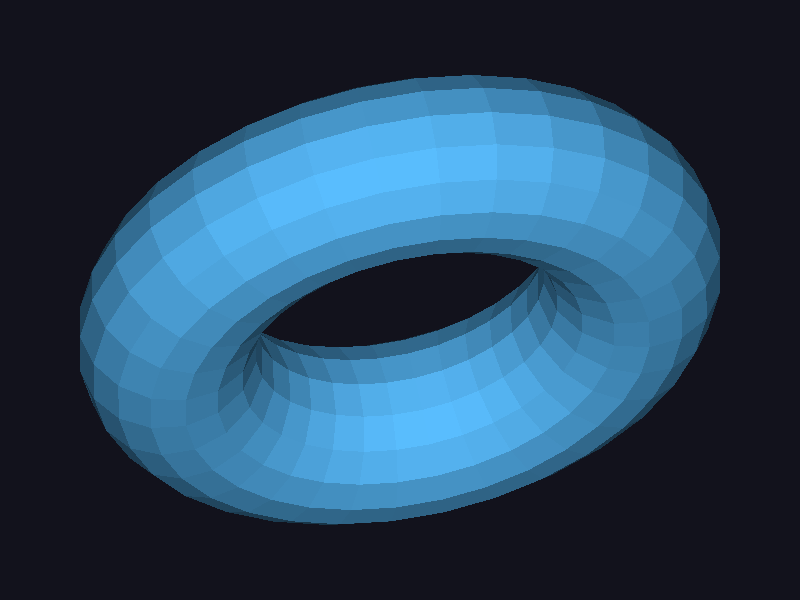
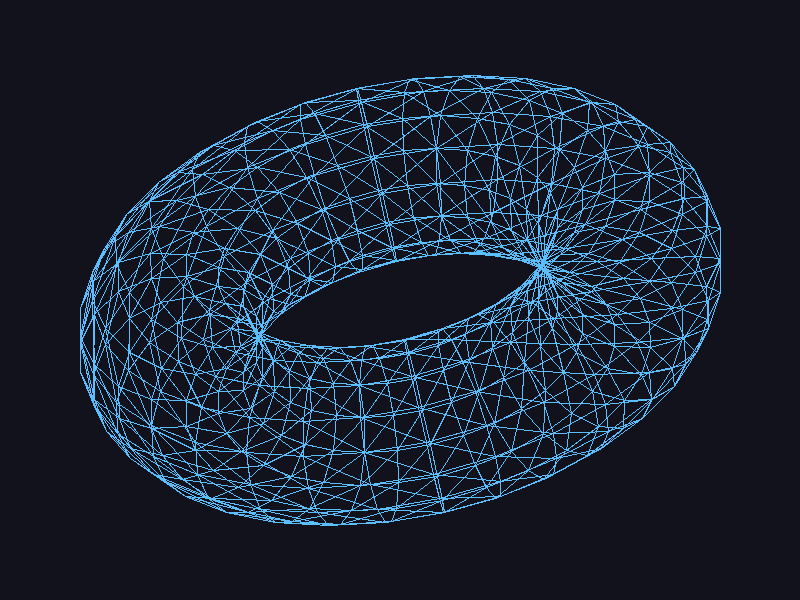
Updates

diff --git a/src/main.rs b/src/main.rs
@@ -3,13 +3,14 @@ mod obj;
 mod triangle;
 
 use framebuffer::Framebuffer;
-use obj::{Model, Vec3};
+use obj::Model;
 use raylib::prelude::*;
 use triangle::{triangle, Vec2};
 
 const WIDTH: i32 = 800;
 const HEIGHT: i32 = 600;
 const BACKGROUND: Color = Color::new(18, 18, 28, 255);
+const LINE_COLOR: Color = Color::new(90, 190, 255, 255);
 const MARGIN: f32 = 0.8;
 
 /// Escala y traslada (x, y) para que el modelo quede centrado y completamente visible.
@@ -36,32 +37,12 @@ fn fit_to_screen(model: &Model) -> Vec<Vec2> {
         .collect()
 }
 
-fn shade(tri: &[Vec3; 3]) -> Color {
-    let u = [tri[1][0] - tri[0][0], tri[1][1] - tri[0][1], tri[1][2] - tri[0][2]];
-    let v = [tri[2][0] - tri[0][0], tri[2][1] - tri[0][1], tri[2][2] - tri[0][2]];
-    let n = [
-        u[1] * v[2] - u[2] * v[1],
-        u[2] * v[0] - u[0] * v[2],
-        u[0] * v[1] - u[1] * v[0],
-    ];
-    let len = (n[0] * n[0] + n[1] * n[1] + n[2] * n[2]).sqrt().max(f32::EPSILON);
-    let light = (n[2] / len).abs() * 0.75 + 0.25;
-    Color::new((90.0 * light) as u8, (190.0 * light) as u8, (255.0 * light) as u8, 255)
-}
-
 fn render(fb: &mut Framebuffer, model: &Model, screen: &[Vec2]) {
     fb.clear(BACKGROUND);
+    fb.set_color(LINE_COLOR);
 
-    // Los triángulos más lejanos se dibujan primero para que no se tapen mal entre sí
-    let mut faces: Vec<usize> = (0..model.indices.len() / 3).collect();
-    let depth = |f: usize| -> f32 { (0..3).map(|k| model.vertices[model.indices[f * 3 + k]][2]).sum() };
-    faces.sort_by(|&a, &b| depth(a).partial_cmp(&depth(b)).unwrap());
-
-    for f in faces {
-        let idx = [model.indices[f * 3], model.indices[f * 3 + 1], model.indices[f * 3 + 2]];
-        let tri3 = [model.vertices[idx[0]], model.vertices[idx[1]], model.vertices[idx[2]]];
-        fb.set_color(shade(&tri3));
-        triangle(fb, screen[idx[0]], screen[idx[1]], screen[idx[2]]);
+    for t in model.indices.chunks_exact(3) {
+        triangle(fb, screen[t[0]], screen[t[1]], screen[t[2]]);
     }
 }
 

diff --git a/src/triangle.rs b/src/triangle.rs
@@ -2,31 +2,34 @@ use crate::framebuffer::Framebuffer;
 
 pub type Vec2 = [f32; 2];
 
-fn edge(a: Vec2, b: Vec2, p: Vec2) -> f32 {
-    (b[0] - a[0]) * (p[1] - a[1]) - (b[1] - a[1]) * (p[0] - a[0])
-}
+fn line(fb: &mut Framebuffer, a: Vec2, b: Vec2) {
+    let (mut x0, mut y0) = (a[0].round() as i32, a[1].round() as i32);
+    let (x1, y1) = (b[0].round() as i32, b[1].round() as i32);
+    let dx = (x1 - x0).abs();
+    let dy = -(y1 - y0).abs();
+    let sx = if x0 < x1 { 1 } else { -1 };
+    let sy = if y0 < y1 { 1 } else { -1 };
+    let mut err = dx + dy;
 
-/// Rellena un triángulo usando coordenadas baricéntricas.
-pub fn triangle(fb: &mut Framebuffer, a: Vec2, b: Vec2, c: Vec2) {
-    let area = edge(a, b, c);
-    if area.abs() < f32::EPSILON {
-        return;
-    }
-
-    let min_x = a[0].min(b[0]).min(c[0]).floor().max(0.0) as i32;
-    let max_x = a[0].max(b[0]).max(c[0]).ceil().min((fb.width - 1) as f32) as i32;
-    let min_y = a[1].min(b[1]).min(c[1]).floor().max(0.0) as i32;
-    let max_y = a[1].max(b[1]).max(c[1]).ceil().min((fb.height - 1) as f32) as i32;
-
-    for y in min_y..=max_y {
-        for x in min_x..=max_x {
-            let p = [x as f32 + 0.5, y as f32 + 0.5];
-            let w0 = edge(b, c, p) / area;
-            let w1 = edge(c, a, p) / area;
-            let w2 = edge(a, b, p) / area;
-            if w0 >= 0.0 && w1 >= 0.0 && w2 >= 0.0 {
-                fb.point(x, y);
-            }
+    loop {
+        fb.point(x0, y0);
+        if x0 == x1 && y0 == y1 {
+            break;
+        }
+        let e2 = 2 * err;
+        if e2 >= dy {
+            err += dy;
+            x0 += sx;
+        }
+        if e2 <= dx {
+            err += dx;
+            y0 += sy;
         }
     }
+}
+
+pub fn triangle(fb: &mut Framebuffer, a: Vec2, b: Vec2, c: Vec2) {
+    line(fb, a, b);
+    line(fb, b, c);
+    line(fb, c, a);
 }
